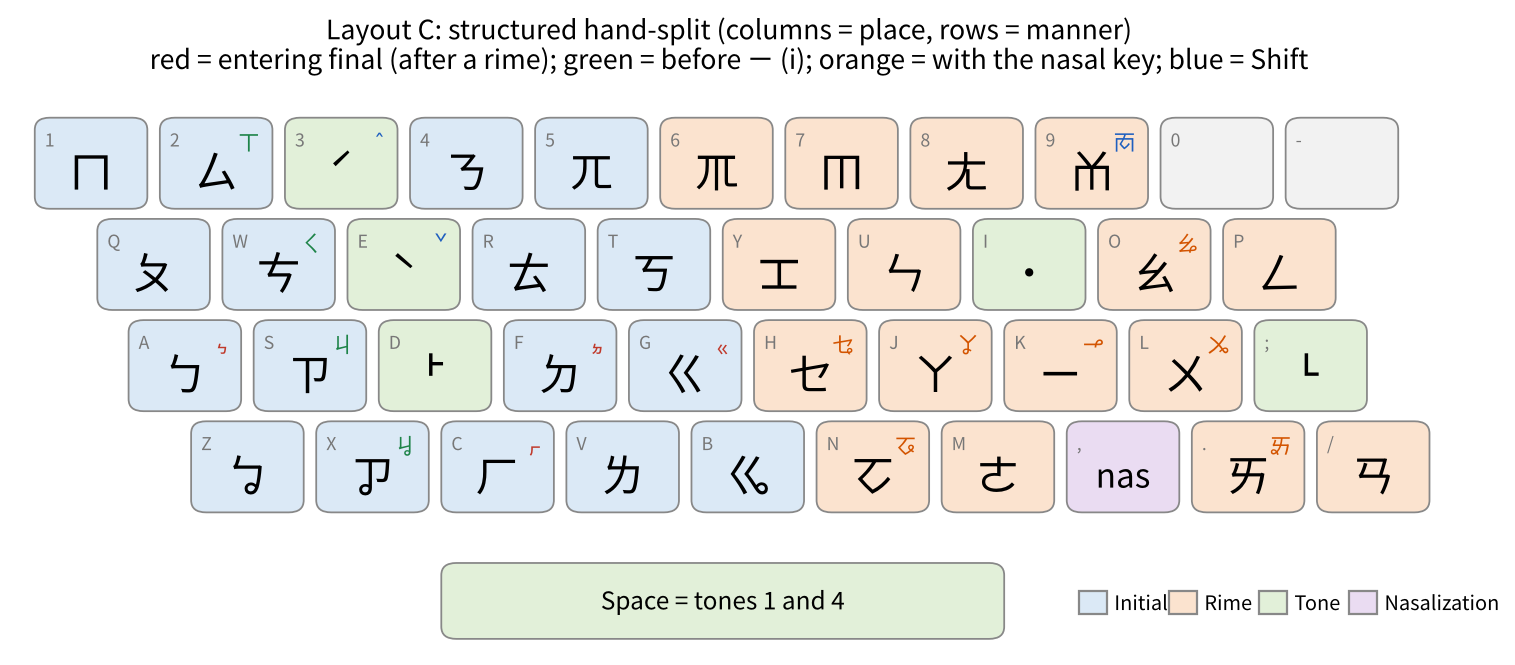
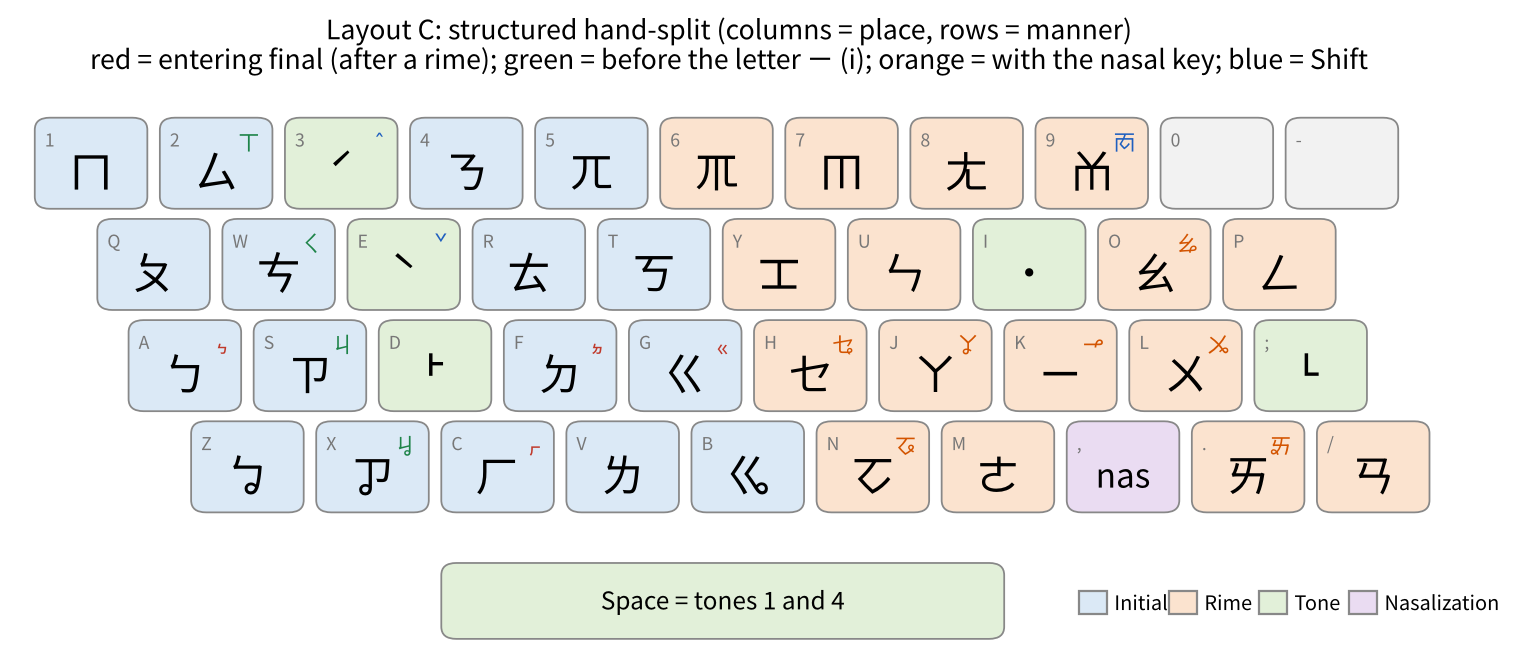
Figures: say 'the letter ㄧ (i)' in the legend
Claude-Session: https://claude.ai/code/session_01NAaUPmCiocEBpHhsM43Wwq

Changed region(s): [[0.062, 0.0602, 0.8997, 0.1203]]

diff --git a/figures_prefix.py b/figures_prefix.py
@@ -17,12 +17,12 @@ COL = {'ini': '#dbe9f6', 'rime': '#fbe3cf', 'tone': '#e2f0d9', 'nas': '#eadcf2',
 LANG = sys.argv[1] if len(sys.argv) > 1 else 'en'
 T = {'en': dict(nas='nas', space='Space = tones 1 and 4',
                 leg=['Initial', 'Rime', 'Tone', 'Nasalization'],
-                note='\nred = entering final (after a rime); green = before ㄧ (i); orange = with the nasal key',
+                note='\nred = entering final (after a rime); green = before the letter ㄧ (i); orange = with the nasal key',
                 titles={'A-P': 'Layout A-P: Dachien-preserving with prefix page',
                         'B-P': 'Layout B-P: hand-split with prefix page',
                         'C-P': 'Layout C-P: structured hand-split with prefix page'}),
      'zh': dict(nas='鼻', space='空白鍵＝第 1、4 聲', leg=['聲母', '韻母', '聲調', '鼻化'],
-                note='\n紅字＝入聲韻尾（接在韻母後）；綠字＝後接 ㄧ（i）時的同位音；橘字＝母音＋鼻化鍵',
+                note='\n紅字＝入聲韻尾（接在韻母後）；綠字＝後接字母 ㄧ（i）時的同位音；橘字＝母音＋鼻化鍵',
                 titles={'A-P': '方案甲-P：大千保留型＋前置頁',
                         'B-P': '方案乙-P：左右分區型＋前置頁',
                         'C-P': '方案丙-P：結構化分區型＋前置頁'})}[LANG]
